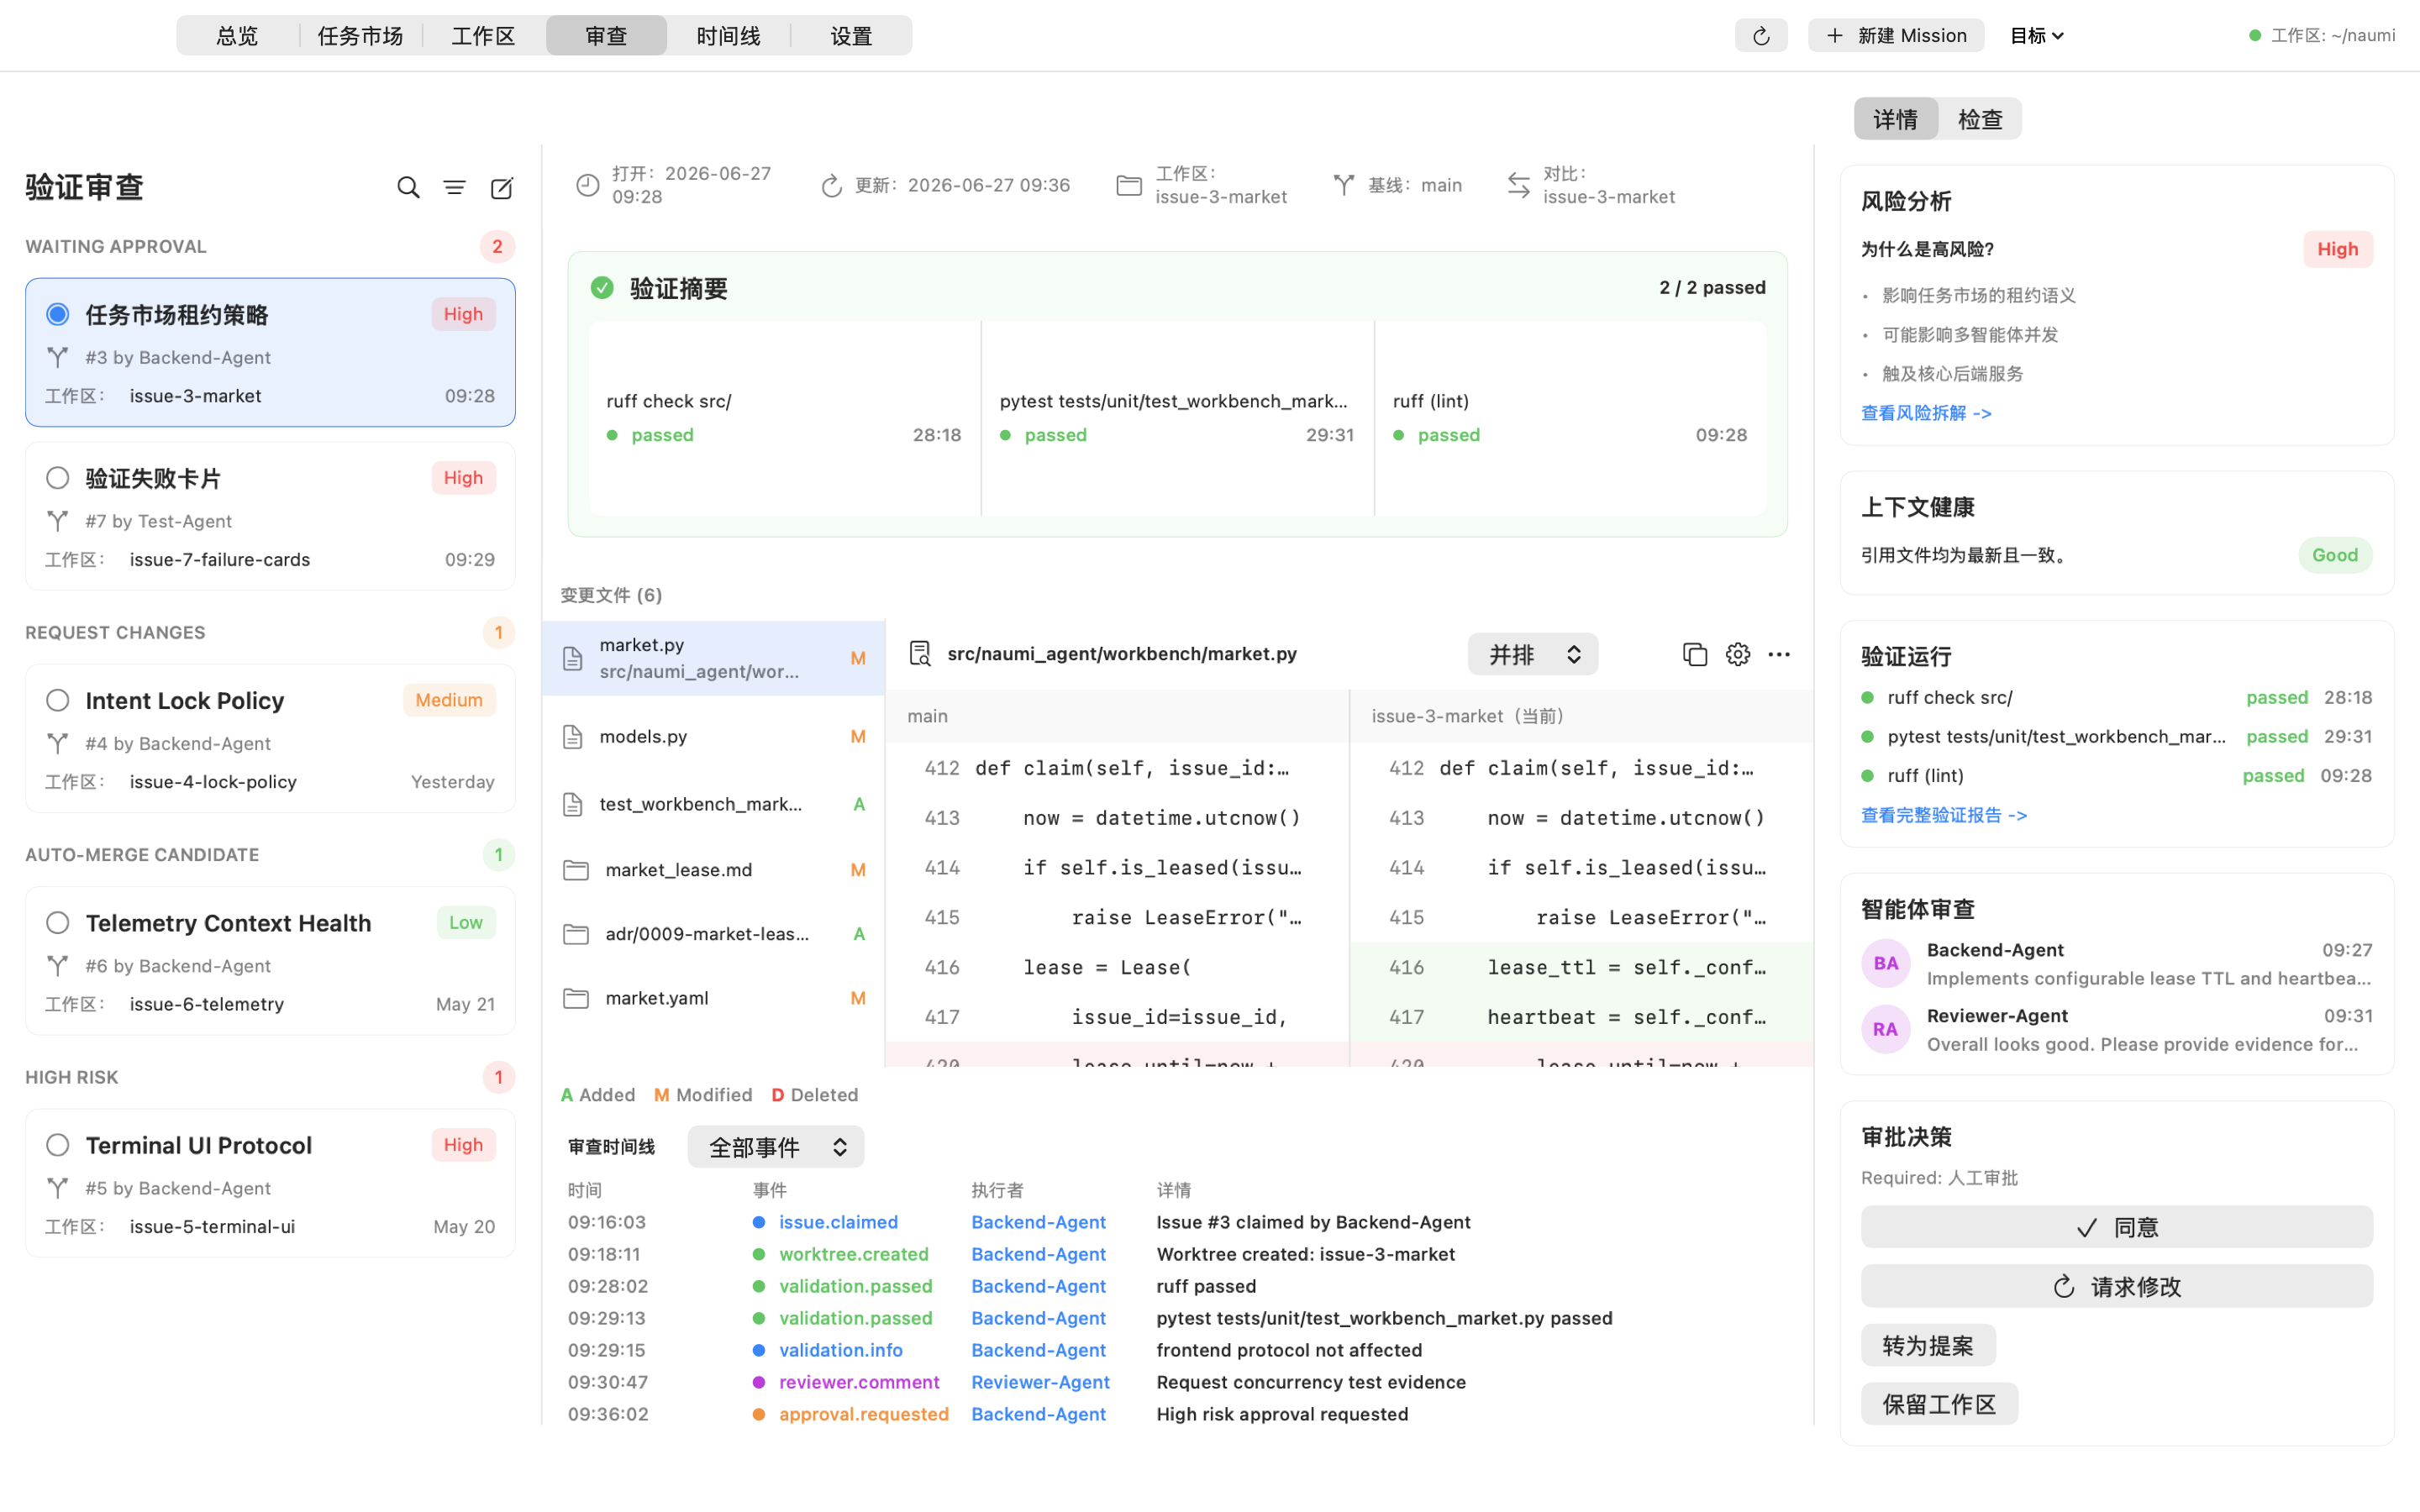
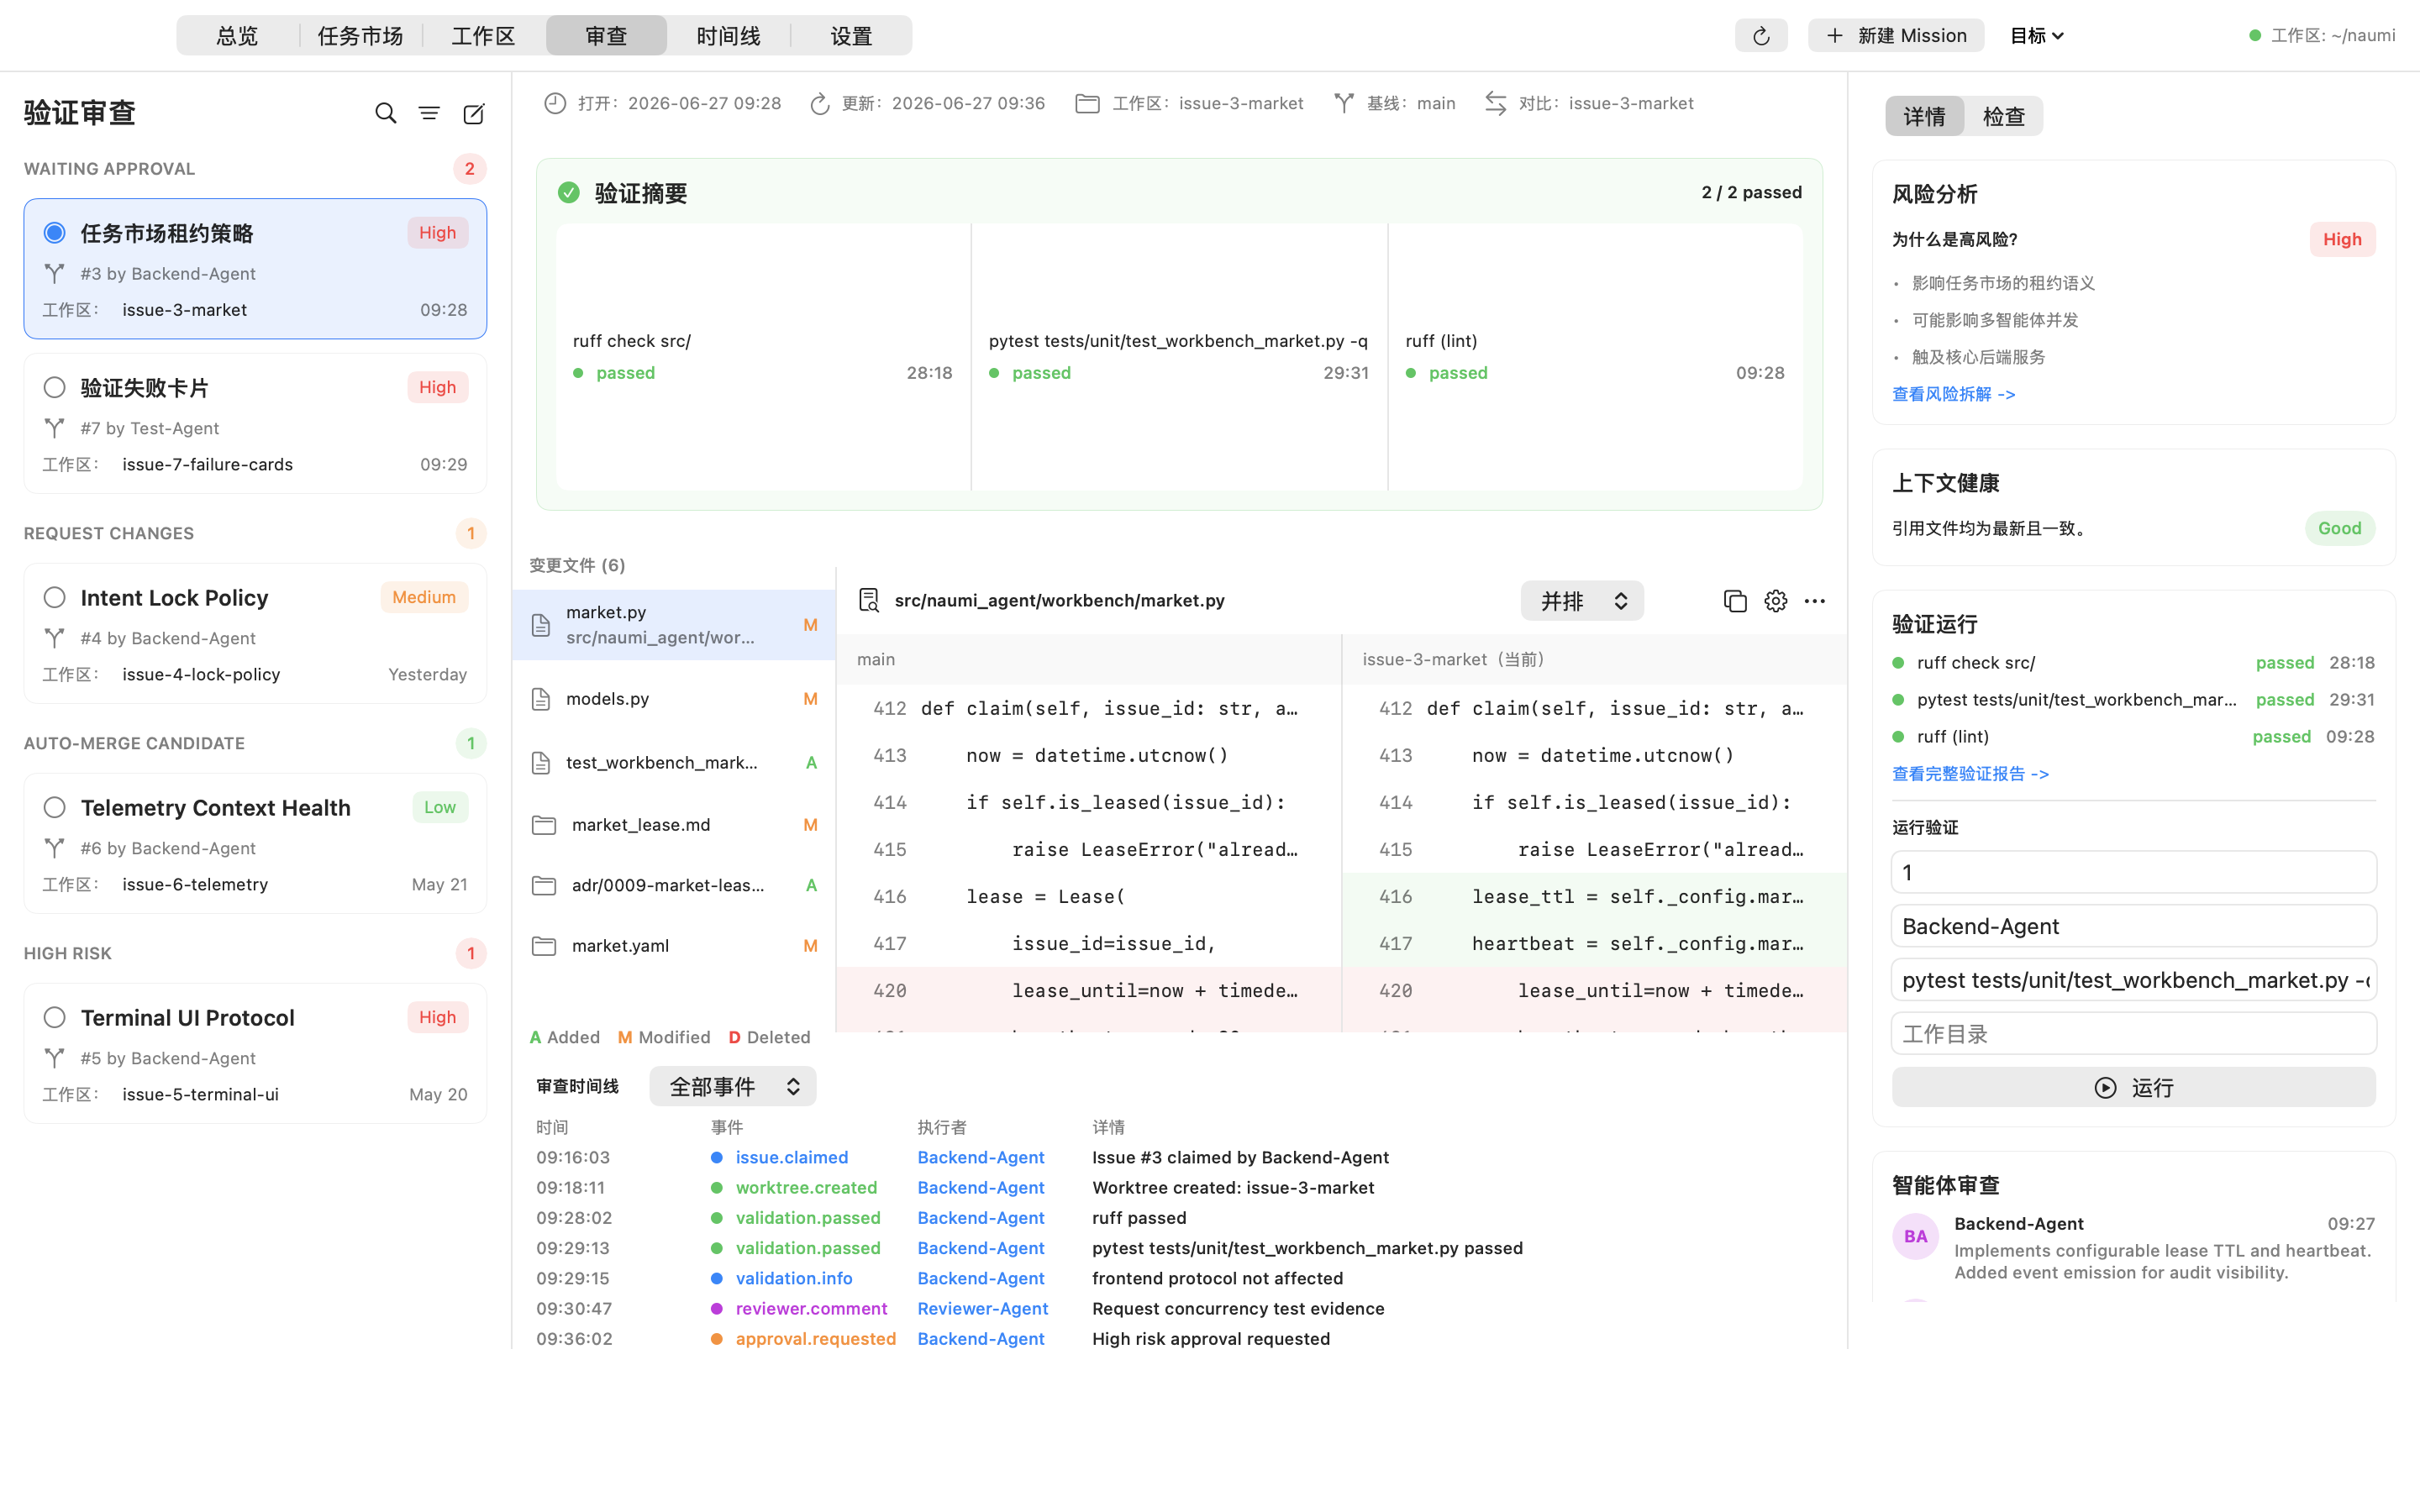
fix: stabilize mac workbench scaled layout

diff --git a/apps/macos/NaumiAgentWorkbench/Sources/NaumiAgentWorkbenchCore/App/ScaledWorkbenchPage.swift b/apps/macos/NaumiAgentWorkbench/Sources/NaumiAgentWorkbenchCore/App/ScaledWorkbenchPage.swift
@@ -20,24 +20,21 @@ public struct ScaledWorkbenchPage<Content: View>: View {
             let scale = CGFloat(viewport.scale)
 
             ScrollView(.vertical, showsIndicators: viewport.showsVerticalScroll) {
-                ZStack(alignment: .top) {
-                    content
-                        .frame(
-                            width: layout.baseWidth,
-                            height: layout.baseHeight,
-                            alignment: .topLeading
-                        )
-                        .scaleEffect(scale, anchor: .topLeading)
-                        .frame(
-                            width: viewport.scaledSize.width,
-                            height: viewport.scaledSize.height,
-                            alignment: .topLeading
-                        )
-                }
+                content
+                    .frame(
+                        width: layout.baseWidth,
+                        height: layout.baseHeight,
+                        alignment: .topLeading
+                    )
+                    .scaleEffect(scale, anchor: .topLeading)
+                    .frame(
+                        width: viewport.scaledSize.width,
+                        height: viewport.scaledSize.height,
+                        alignment: .topLeading
+                    )
                 .frame(
                     width: viewport.containerSize.width,
-                    height: viewport.containerSize.height,
-                    alignment: .top
+                    alignment: .topLeading
                 )
             }
             .frame(width: proxy.size.width, height: proxy.size.height, alignment: .topLeading)

diff --git a/apps/macos/NaumiAgentWorkbench/Tests/NaumiAgentWorkbenchCoreTests/WorkbenchPageLayoutTests.swift b/apps/macos/NaumiAgentWorkbench/Tests/NaumiAgentWorkbenchCoreTests/WorkbenchPageLayoutTests.swift
@@ -16,25 +16,26 @@ struct WorkbenchPageLayoutTests {
         let layout = WorkbenchScaledPageLayout.dashboard
         let size = layout.scaledSize(for: 900)
 
-        #expect(layout.scale(for: 1440) > 1)
+        #expect(layout.scale(for: 1600) > 1)
         #expect(layout.scale(for: 900) < 1)
         #expect(size.width <= 900)
         #expect(size.height < layout.baseHeight)
     }
 
-    @Test func scaledLayoutUsesAvailableSizeSoThreeColumnsStayVisible() {
+    @Test func scaledLayoutUsesWindowWidthSoHeightDoesNotChangeColumnScale() {
         let layout = WorkbenchScaledPageLayout.dashboard
 
-        let native = layout.scaledSize(for: CGSize(width: 1360, height: 720))
-        let wideButShort = layout.scaledSize(for: CGSize(width: 2048, height: 900))
+        let native = layout.scaledSize(for: CGSize(width: layout.baseWidth, height: layout.baseHeight))
+        let sameWidthTall = layout.scaledSize(for: CGSize(width: 1180, height: 900))
+        let sameWidthShort = layout.scaledSize(for: CGSize(width: 1180, height: 620))
         let narrow = layout.scaledSize(for: CGSize(width: 900, height: 620))
 
         #expect(abs(native.width - layout.baseWidth) < 0.001)
         #expect(abs(native.height - layout.baseHeight) < 0.001)
-        #expect(wideButShort.width <= 2048)
-        #expect(wideButShort.height <= 900)
+        #expect(abs(sameWidthTall.width - sameWidthShort.width) < 0.001)
+        #expect(abs(sameWidthTall.height - sameWidthShort.height) < 0.001)
         #expect(abs(narrow.width - 900) < 0.001)
-        #expect(narrow.height < 620)
+        #expect(narrow.height > 620)
     }
 
     @Test func scaledViewportKeepsTheFullWorkbenchFitted() {
@@ -50,7 +51,7 @@ struct WorkbenchPageLayoutTests {
         #expect(compact.showsVerticalScroll == false)
         #expect(wide.showsVerticalScroll == false)
         #expect(wideButShort.scaledSize.width <= wideButShort.containerSize.width)
-        #expect(wideButShort.scaledSize.height <= wideButShort.containerSize.height)
-        #expect(wideButShort.showsVerticalScroll == false)
+        #expect(wideButShort.scaledSize.height > wideButShort.containerSize.height)
+        #expect(wideButShort.showsVerticalScroll == true)
     }
 }

diff --git a/apps/macos/NaumiAgentWorkbench/Sources/NaumiAgentWorkbenchCore/Features/Dashboard/DashboardView.swift b/apps/macos/NaumiAgentWorkbench/Sources/NaumiAgentWorkbenchCore/Features/Dashboard/DashboardView.swift
@@ -70,21 +70,27 @@ public struct DashboardView: View {
         let auditTrailHeight: CGFloat = 112
         let dividerHeight: CGFloat = 1
         let mainHeight = CGFloat(WorkbenchScaledPageLayout.dashboard.baseHeight) - auditTrailHeight - dividerHeight
+        let leftRailWidth: CGFloat = 312
+        let inspectorWidth: CGFloat = 340
+        let sharedCanvasWidth = CGFloat(WorkbenchScaledPageLayout.dashboard.baseWidth)
+            - leftRailWidth
+            - inspectorWidth
+            - (dividerHeight * 2)
 
         return VStack(spacing: 0) {
             HStack(alignment: .top, spacing: 0) {
                 workbenchLeftRail(presentation: presentation, market: market)
-                    .frame(width: 302)
+                    .frame(width: leftRailWidth)
 
                 Divider()
 
                 sharedCanvas(presentation: presentation, market: market)
-                    .frame(width: 716, height: mainHeight, alignment: .top)
+                    .frame(width: sharedCanvasWidth, height: mainHeight, alignment: .top)
 
                 Divider()
 
                 inspectorPanel(presentation: presentation)
-                    .frame(width: 340, alignment: .top)
+                    .frame(width: inspectorWidth, alignment: .top)
             }
             .frame(height: mainHeight, alignment: .top)
             .clipped()
@@ -361,7 +367,8 @@ public struct DashboardView: View {
                 }
             }
             .padding(.horizontal, 16)
-            .frame(height: 44, alignment: .center)
+            .padding(.top, 8)
+            .frame(height: 54, alignment: .center)
 
             ZStack {
                 dottedCanvasBackground

diff --git a/apps/macos/NaumiAgentWorkbench/Sources/NaumiAgentWorkbenchCore/App/WorkbenchPageLayout.swift b/apps/macos/NaumiAgentWorkbench/Sources/NaumiAgentWorkbenchCore/App/WorkbenchPageLayout.swift
@@ -33,8 +33,8 @@ public struct WorkbenchScaledPageLayout: Equatable, Sendable {
     public let baseWidth: Double
     public let baseHeight: Double
 
-    public static let dashboard = WorkbenchScaledPageLayout(baseWidth: 1360, baseHeight: 720)
-    public static let reviews = WorkbenchScaledPageLayout(baseWidth: 1360, baseHeight: 720)
+    public static let dashboard = WorkbenchScaledPageLayout(baseWidth: 1440, baseHeight: 760)
+    public static let reviews = WorkbenchScaledPageLayout(baseWidth: 1440, baseHeight: 760)
 
     public init(baseWidth: Double, baseHeight: Double) {
         self.baseWidth = baseWidth
@@ -47,10 +47,7 @@ public struct WorkbenchScaledPageLayout: Equatable, Sendable {
     }
 
     public func scale(for availableSize: CGSize) -> Double {
-        guard baseWidth > 0, baseHeight > 0 else { return 1 }
-        let widthScale = availableSize.width / baseWidth
-        let heightScale = availableSize.height / baseHeight
-        return max(0.1, min(widthScale, heightScale))
+        scale(for: availableSize.width)
     }
 
     public func scaledSize(for availableWidth: Double) -> CGSize {
@@ -72,7 +69,7 @@ public struct WorkbenchScaledPageLayout: Equatable, Sendable {
             scaledSize: scaledSize,
             containerSize: CGSize(
                 width: availableSize.width,
-                height: max(availableSize.height, scaledSize.height)
+                height: availableSize.height
             ),
             showsVerticalScroll: scaledSize.height > availableSize.height
         )